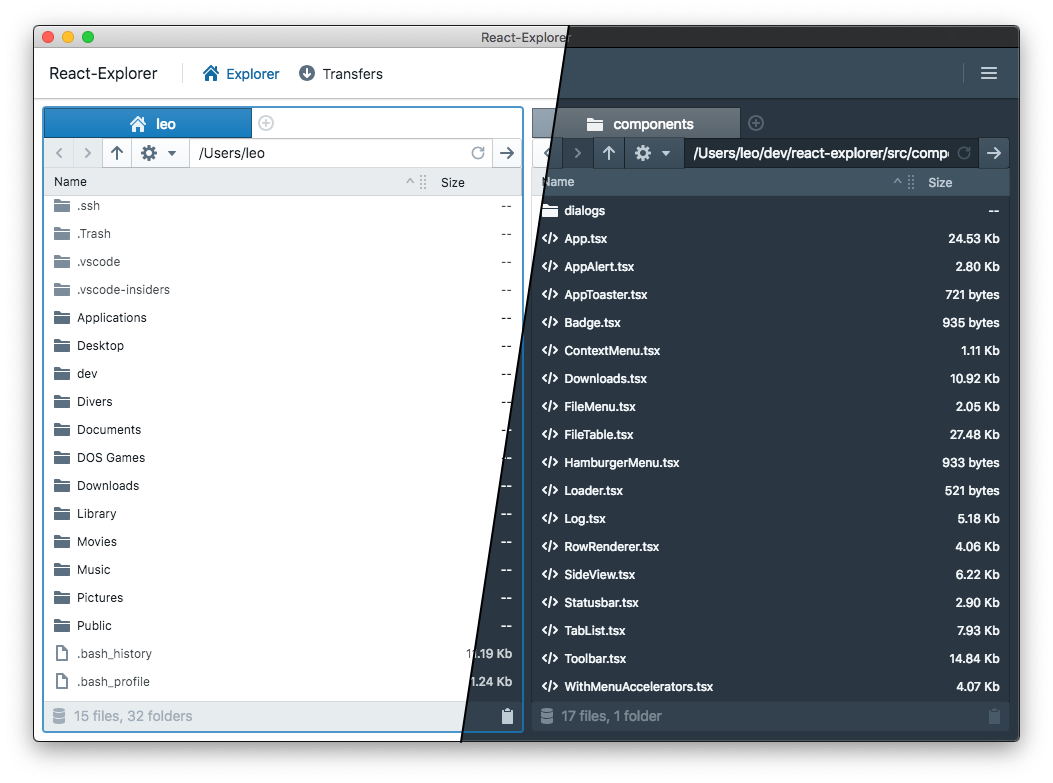
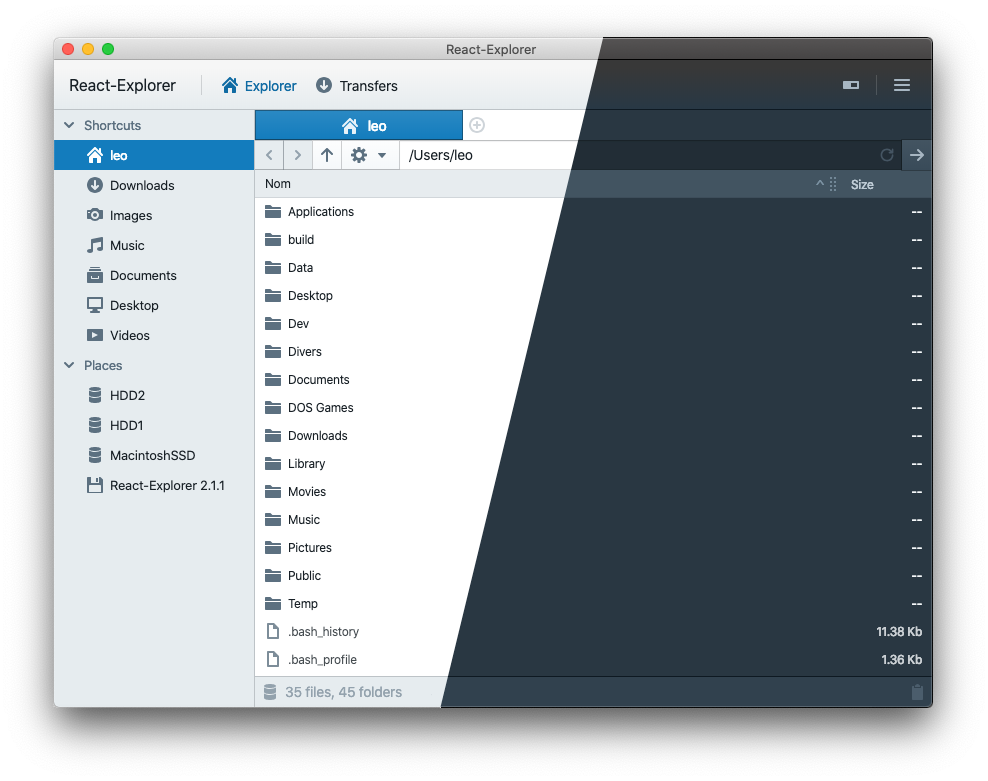
2.2.0 release (#88)
- FIXED: some mountpoints may have no label (Windows) fixes #83 
- FIXED: left panel language didn't update on lang change, fixes #80 
- FIXED: resizing the window could crop the left panel, fixes #81
- FIXED: borders display bugs, fixes #84 
- FIXED: do not show forbidden cursor over the status bar, fixes #86 
- UPDATED: theme image un readme file, fixes #85

diff --git a/src/css/main.css b/src/css/main.css
@@ -43,6 +43,11 @@ button.small:hover{
     -webkit-user-select: none;
 }
 
+.sideview > .bp3-control-group > :first-child,
+.sideview > .bp3-control-group > :last-child {
+    border-radius:0;
+}
+
 .main > .hidden{
     display:none;
     pointer-events: none;
@@ -66,54 +71,87 @@ button.small:hover{
     justify-content: center;
     flex-grow:1;
     overflow:hidden;
-    padding:10px;
+    /* padding:10px; */
 }
 
-#root .sideview{
+#root .sideview {
     position:relative;
-    width:50%;
-    min-width:360px;
+    width:calc((100% - 200px) / 2);
     flex-grow:1;
 }
 
-#root .sideview:before{
+#root .singleView .sideview {
+    width:calc(100% - 200px);
+}
+
+#root .sideview {
+    border-left: 1px solid rgb(189, 195, 199);
+}
+
+#root .dualView #view_0.inactive {
+    border-right-color:transparent;
+}
+
+#root .dualView #view_0.active {
+    border-left-color:transparent;
+}
+
+#root .dualView #view_1.inactive{
+    border-left-color: rgb(131, 135, 138);
+}
+
+#root .darwin.dualView #view_1.active:before {
+    border-bottom-right-radius: 5px;
+}
+
+#root .dualView .sideview:before{
     position: absolute;
-    top: -2px;
-    right: -2px;
-    bottom: -2px;
-    left: -2px;
-    border-radius: 4px;
+    pointer-events:none;
+    top: 0;
+    right: 0;
+    bottom: 0;
+    left: -1px;
     content: "";
+    opacity: .6;
+    z-index: 9;
+    border: 1px solid rgb(189, 195, 199);
+    border-top:none;
+    border-bottom:none;
 }
 
-#root .sideview:before{
-    box-shadow: 0 0 2px 2px inset rgb(231, 236, 239);
+#root .dualView .sideview.active:before {
+    opacity:1;
+    border: 2px solid rgba(19, 124, 189, .9);
 }
 
-.bp3-dark #root .sideview:before{
-    box-shadow: 0 0 2px 2px inset rgb(66, 84, 97);
+#root .dualView .sideview.inactive:before{
+    border-left:none;
 }
 
-#root .sideview.active:before{
-    box-shadow: 0 0 0px 2px inset rgba(19, 124, 189, 0.8);
-    z-index:2;
-    pointer-events: none;
+/* dark theme */
+.bp3-dark #root .singleView .sideview {
+    border-left: 1px solid rgb(14,25,34);
 }
 
-#root .singleView .sideview.active:before{
-    box-shadow: 0 0 2px 2px inset rgb(219, 219, 219);
+.bp3-dark #root .sideview,
+.bp3-dark #root .dualView #view_1.inactive {
+    border-color: rgb(14,25,34);
 }
 
-.bp3-dark #root .singleView .sideview:before{
-    box-shadow: 0 0 2px 2px inset rgb(66, 84, 97);
+.bp3-dark #root .dualView .sideview.inactive:before {
+    border-color: rgb(73, 75, 76);
 }
 
-#root .sideview.dropTarget:before{
-    box-shadow: 0 0 4px 2px inset #00b63d82;
+#root .sideview.dropTarget:before {
+    box-shadow: 0 0 4px 2px inset #00b63ddb;
 }
 
 #root .sideview.notDropTarget{
     cursor:no-drop;
+}
+
+#root .sideview.notDropTarget:before {
+    box-shadow: 0 0 4px 2px inset #b6000982;
 }
 
 #root .sideview:first-child{
@@ -178,6 +216,19 @@ button.small:hover{
 /* line height bug ? */
 .bp3-tree-node-caret > span{
     vertical-align:top;
+}
+
+#root .bp3-navbar {
+    border-bottom: 1px solid rgb(189, 195, 199);
+    background: rgb(246,246,246);
+    background: linear-gradient(180deg, rgba(246,246,246,1) 16%, rgba(230,236,239,1) 100%);
+    box-shadow:none;
+}
+
+.bp3-dark #root .bp3-navbar {
+    border-bottom: 1px solid rgb(14,25,34);
+    background: rgb(46,46,46);
+    background: linear-gradient(180deg, rgba(56,56,56,1) 16%, rgba(40,56,69,1) 100%);
 }
 
 .bp3-navbar .download .bp3-button-text{
@@ -300,6 +351,24 @@ body.bp3-dark .bp3-loader.active{
     border:1px solid rgba(16,22,26,.2);
 }
 
+.status-bar {
+    border-top: 1px solid rgb(189, 195, 199);
+}
+
+/* FIXME: we only used disable state to use the styles associated with disabled state */
+.status-bar .bp3-input:disabled,
+.status-bar .bp3-input.bp3-disabled,
+.status-bar .bp3-button.bp3-disabled,
+.status-bar button.bp3-minimal.bp3-disabled,
+.status-bar button.bp3-minimal.bp3-disabled:hover,
+.status-bar.bp3-input-group.bp3-disabled {
+    cursor:default;
+}
+
+.bp3-dark .status-bar {
+    border-top: 1px solid rgb(14,25,34);
+}
+
 .status-bar.offline > .bp3-icon:after{
     border-bottom: 1px solid rgba(255,0,0,.6);
     content: "";
@@ -373,9 +442,21 @@ body.bp3-dark .bp3-loader.active{
     background-color: rgb(88, 100, 109);
 }
 
+.sideview > .toolbar > .bp3-button-group > .bp3-button:not([class*="bp3-intent-"]) {
+    box-shadow: inset 0 0 0 1px rgba(16, 22, 26, 0.2), inset 0 -1px 0 rgba(16, 22, 26, 0.1);
+}
+
+.sideview > .toolbar > .bp3-button-group > .bp3-button:first-child:not([class*="bp3-intent-"]) {
+    margin-left:-1px;
+}
+
+.sideview > .toolbar > .bp3-button-group > .bp3-button:last-child:not([class*="bp3-intent-"]) {
+    box-shadow:inset 0 -1px 0 rgba(16, 22, 26, 0.1);
+}
+
 .tablist .bp3-button .bp3-button-text{
     overflow:hidden;
-    white-space: nowrap;    
+    white-space: nowrap;
     text-overflow:ellipsis;
 }
 

diff --git a/src/components/LeftPanel.tsx b/src/components/LeftPanel.tsx
@@ -4,6 +4,7 @@ import { observer, inject } from "mobx-react";
 import { withNamespaces, WithNamespaces } from 'react-i18next';
 import classNames from "classnames";
 import { IReactionDisposer, reaction, toJS } from "mobx";
+import i18next from 'i18next';
 import { USERNAME } from "../utils/platform";
 import Icons from "../constants/icons";
 import { FavoritesState, Favorite } from "../state/favoritesState";
@@ -58,7 +59,22 @@ export class LeftPanelClass extends React.Component<IProps, LeftPanelState> {
         this.favoritesState = this.injected.appState.favoritesState;
 
         this.installReaction();
+        this.bindLanguageChange();
     }
+
+    private bindLanguageChange = () => {
+        console.log('languageChanged');
+        i18next.on('languageChanged', this.onLanguageChanged);
+    }
+
+    private unbindLanguageChange = () => {
+        i18next.off('languageChanged', this.onLanguageChanged);
+    }
+
+    public onLanguageChanged = (lang: string) => {
+        console.log('building nodes', lang);
+        this.buildNodes(this.favoritesState);
+    }    
 
     private get injected() {
         return this.props as InjectedProps;
@@ -66,6 +82,7 @@ export class LeftPanelClass extends React.Component<IProps, LeftPanelState> {
 
     componentWillUnmount() {
         this.disposers.forEach(disposer => disposer());
+        this.unbindLanguageChange();
     }
 
     private installReaction() {
@@ -152,20 +169,24 @@ export class LeftPanelClass extends React.Component<IProps, LeftPanelState> {
         shortcuts.childNodes = favorites.shortcuts.map((shortcut, i) => ({
             id: `s_${shortcut.path}`,
             key: `s_${shortcut.path}`,
-            label: shortcut.label === 'HOME_DIR' ? USERNAME: t(`FAVORITES_PANEL.${shortcut.label}`),
+            label: <span title={shortcut.path}>
+                    {shortcut.label === 'HOME_DIR' ? USERNAME : t(`FAVORITES_PANEL.${shortcut.label}`)}
+                    </span>,
             icon: Icons[shortcut.label],
-            title: shortcut.path,
             nodeData: shortcut.path
         }));
 
         places.childNodes = favorites.places.map((place, i) => ({
             id: `p_${place.path}`,
             key: `p_${place.path}`,
-            label: place.label,
+            label: <span title={place.path}>{place.label}</span>,
             icon: place.icon,
-            title: place.path,
             nodeData: place.path
         }));
+
+        // update root nodes label too
+        places.label = t('FAVORITES_PANEL.PLACES');
+        shortcuts.label = t('FAVORITES_PANEL.SHORTCUTS');
 
         this.setState(this.state);
     }

diff --git a/e2e/cypress/integration/filetable.spec.ts b/e2e/cypress/integration/filetable.spec.ts
@@ -252,12 +252,19 @@ describe("filetable", () => {
                 .should("eq", 1);
         });
 
-        it("arrow up should select the previous element", () => {
-            // select second element
-            cy.get("#view_0").trigger("keydown", { keyCode: KEYS.Down });
-            cy.get("#view_0").trigger("keydown", { keyCode: KEYS.Down });
+        it.only("arrow up should select the previous element", () => {
+            // be sure to be in a predictable state, without any selected element
+            cy.triggerHotkey(`${MOD_KEY}a`);
+            cy.triggerHotkey(`${MOD_KEY}i`);
 
-            // select first element
+            // activate the first then second element
+            cy.get("#view_0")
+                .trigger("keydown", { keyCode: KEYS.Down });
+
+            cy.get("#view_0")
+                .trigger("keydown", { keyCode: KEYS.Down });
+
+            // activate previous element: should be the second one
             cy.get("#view_0")
                 .trigger("keydown", { keyCode: KEYS.Up })
                 .find("[data-cy-file]")

diff --git a/src/components/FileTable.tsx b/src/components/FileTable.tsx
@@ -791,7 +791,7 @@ export class FileTableClass extends React.Component<IProps, IState> {
 
     onScroll = debounce(({ scrollTop }: any) => {
         this.cache.scrollTop = scrollTop;
-        console.log('onScroll: updating scrollTop', scrollTop, this.cache.path);
+        // console.log('onScroll: updating scrollTop', scrollTop, this.cache.path);
     }, SCROLL_DEBOUNCE);
 
     rowGetter = (index: Index) => this.getRow(index.index);
@@ -801,7 +801,7 @@ export class FileTableClass extends React.Component<IProps, IState> {
         const { position } = this.state;
         const rowCount = this.state.nodes.length;
 
-        return (<div ref={this.setTableRef} onKeyDown={this.onInputKeyDown} className={`fileListSizerWrapper ${Classes.ELEVATION_0}`}>
+        return (<div ref={this.setTableRef} onKeyDown={this.onInputKeyDown} className={`fileListSizerWrapper`}>
             <AutoSizer>
                 {({ width, height }) => (
                     <Table

diff --git a/src/components/App.tsx b/src/components/App.tsx
@@ -1,6 +1,7 @@
 import { AppState } from "../state/appState";
 import * as React from "react";
 import * as ReactDOM from "react-dom";
+import { platform } from "process";
 import { FocusStyleManager, Alert, Classes, Intent } from "@blueprintjs/core";
 import classNames from "classnames";
 import { Provider, observer, inject } from "mobx-react";
@@ -351,8 +352,9 @@ class App extends React.Component<AppProps> {
         const { t } = this.props;
         const winState = this.appState.winStates[0];
         const isSplitView = winState.splitView;
-        const mainClass = classNames('main', {
-            singleView: !isSplitView
+        const mainClass = classNames(`main ${platform}`, {
+            singleView: !isSplitView,
+            dualView: isSplitView
         });
         const viewStateLeft = winState.views[0];
         const viewStateRight = winState.views[1];

diff --git a/src/css/favoritesPanel.css b/src/css/favoritesPanel.css
@@ -3,15 +3,19 @@
     overflow:auto;
     flex-shrink:0;
     width:200px;
-    border:1px dotted gray;
+    /* border:1px dotted gray; */
     margin: 0;
     list-style-type: none;
     background: rgba(206, 217, 224, 0.5);
-    padding: 5px;
+    padding: 0;
     font-size:13px;
 }
 
-.favoritesPanel:before {
+.bp3-dark .favoritesPanel {
+    background-color:rgb(41, 56, 66);
+}
+
+/* .favoritesPanel:before {
     position: absolute;
     top: -2px;
     right: -2px;
@@ -19,8 +23,7 @@
     left: -2px;
     border-radius: 4px;
     content: "";
-    box-shadow: 0 0 2px 2px inset rgb(231, 236, 239);
-}
+} */
 
 .favoritesPanel .bp3-tree-node-content-0 {
     color:#5c7080;

diff --git a/src/state/favoritesState.ts b/src/state/favoritesState.ts
@@ -38,7 +38,8 @@ export class FavoritesState {
             const mountpoint = drive.mountpoints[0];
 
             return {
-                label: mountpoint.label,
+                // Some mountpoints may not have a label (eg. win: c:\)
+                label: mountpoint.label || mountpoint.path,
                 path: mountpoint.path,
                 icon: (drive.isRemovable || drive.isVirtual) ? IconNames.FLOPPY_DISK : IconNames.DATABASE
             } as Favorite;

diff --git a/src/components/SideView.tsx b/src/components/SideView.tsx
@@ -92,6 +92,7 @@ export class SideViewClass extends React.Component<InjectedProps>{
 
         let activeClass = classnames('sideview', {
             active: active,
+            inactive: !active,
             hidden: this.props.hide,
             dropTarget: dropAndOver,
             notDropTarget: isOver && !canDrop

diff --git a/README.md b/README.md
@@ -102,10 +102,10 @@ This will start Jest and run every spec files found in src. Every test file can 
 
 ### End to End testing
 
-End to end tests are using Cypress and are in the separate `e2e` directory:
+End to end tests are using Cypress and are in the separate `e2e` directory. You must install & configure Cypress before running E2E tests. This needs to be done one once using the following commands:
 
 ```shell
-cd e2e
+cd e2e && npm install && cd ..
 ```
 
 The first time you run the tests, you also need to install cypress dependencies:
@@ -121,6 +121,8 @@ npm run build
 ```
 
 This will create a new Electron-Explorer in the `build-e2e` directory.
+
+You may also type `npm run watch` if you want to rebuild automatically the e2e build after a change has been detected inside the sources.
 
 For React-Explorer to run without Electron, a local webserver needs to be started before running the tests:
 
